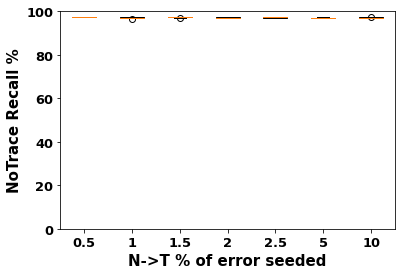
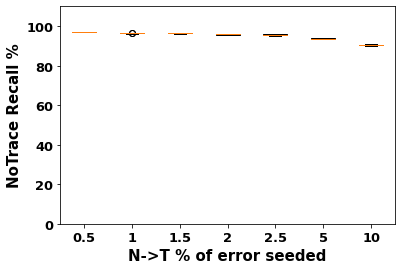
test

diff --git a/errorSeedingICSME2021.py b/errorSeedingICSME2021.py
@@ -106,7 +106,7 @@ def main():
     X_train2, X_test2, y_train2, y_test2 = train_test_split(X, y, test_size=0.5, random_state=1)    
 
     #print(CorrectData)
-    '''path = 'TtoN'
+    path = 'TtoN'
     print_precision_recall(path, X_train, y_train,X_train2, y_train2)
     
     
@@ -127,7 +127,7 @@ def main():
     drawboxplots('Prec_N', NtoT0_5PrecN, NtoT1PrecN, NtoT1_5PrecN, NtoT2PrecN, NtoT2_5PrecN,NtoT5PrecN, NtoT10PrecN, 'NoTrace Precision %',  'N->T % of error seeded', './boxplots/NoTracePrecisionVsNtoTError')
     drawboxplots('Rec_T', NtoT0_5RecT, NtoT1RecT, NtoT1_5RecT, NtoT2RecT, NtoT2_5RecT,NtoT5RecT, NtoT10RecT, 'Trace Recall %',  'N->T % of error seeded', './boxplots/TraceRecallVsNtoTError')
     drawboxplots('Rec_N', NtoT0_5RecN, NtoT1RecN, NtoT1_5RecN, NtoT2RecN, NtoT2_5RecN,NtoT5RecN,NtoT10RecN, 'NoTrace Recall %', 'N->T % of error seeded', './boxplots/NoTraceRecallVsNtoTError')
-
+    '''
 def drawboxplots(prec_T, array1, array2, array3, array4, array5, array6, array7, ylabel, xlabel, figname):
     box_plot_data=[array1,array2,array3,array4, array5, array6, array7]
     print(box_plot_data)
@@ -136,7 +136,7 @@ def drawboxplots(prec_T, array1, array2, array3, array4, array5, array6, array7,
     else:
         plt.boxplot(box_plot_data,patch_artist=True,labels=['5','10','15','20', '25','50','75'])
 
-    plt.ylim(0, 100)# Add title and axis names
+    plt.ylim(0, 110)# Add title and axis names
     #plt.title('Trace Precision % versus T->N % of error seeded',fontsize=15)
     plt.ylabel(ylabel,fontsize=15, weight='bold')
     plt.xlabel(xlabel,fontsize=15, weight='bold')
@@ -151,7 +151,7 @@ def print_precision_recall(path, X_train, y_train,X_train2, y_train2):
     y_train={}
     y_test={}
     #change line below to TtoN or NtoT depending on seeding type 
-    path = 'NtoT'
+    path = 'TtoN'
     files = os.listdir(path)
 
     for f in files:
